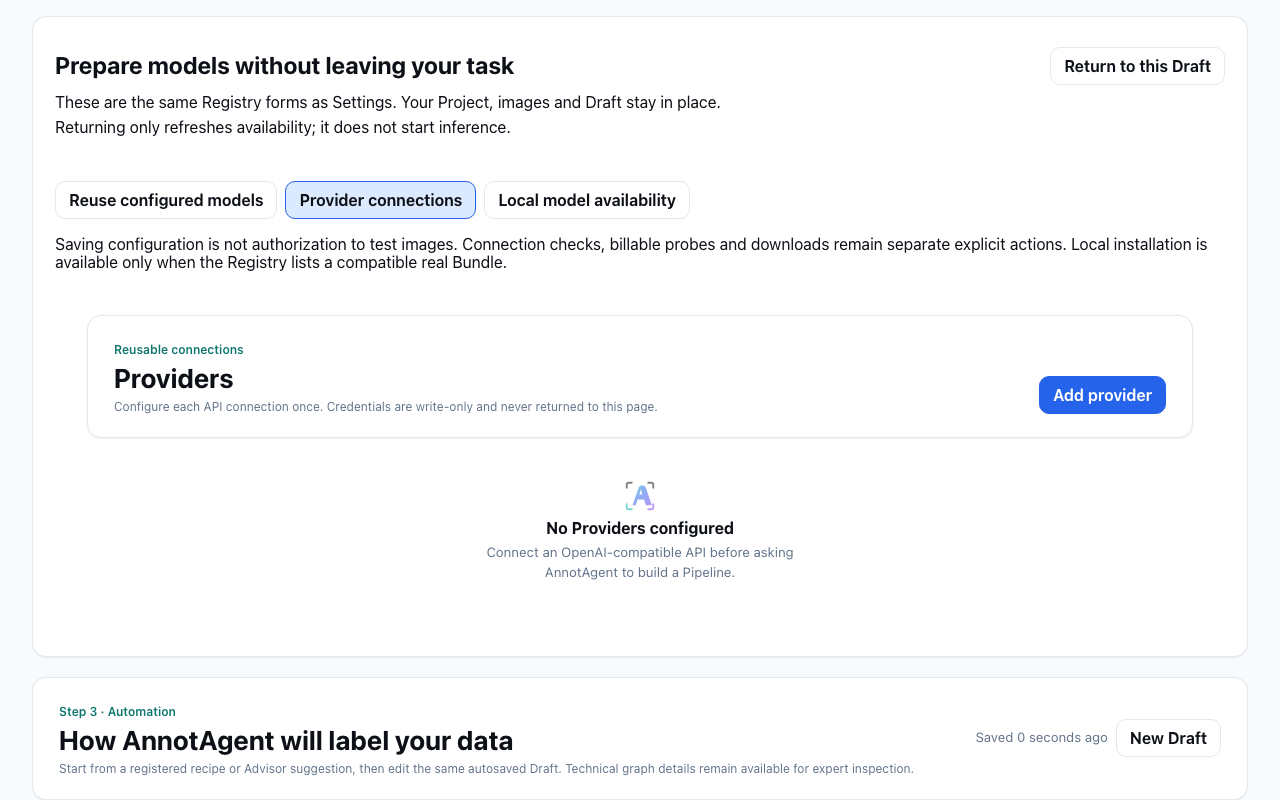
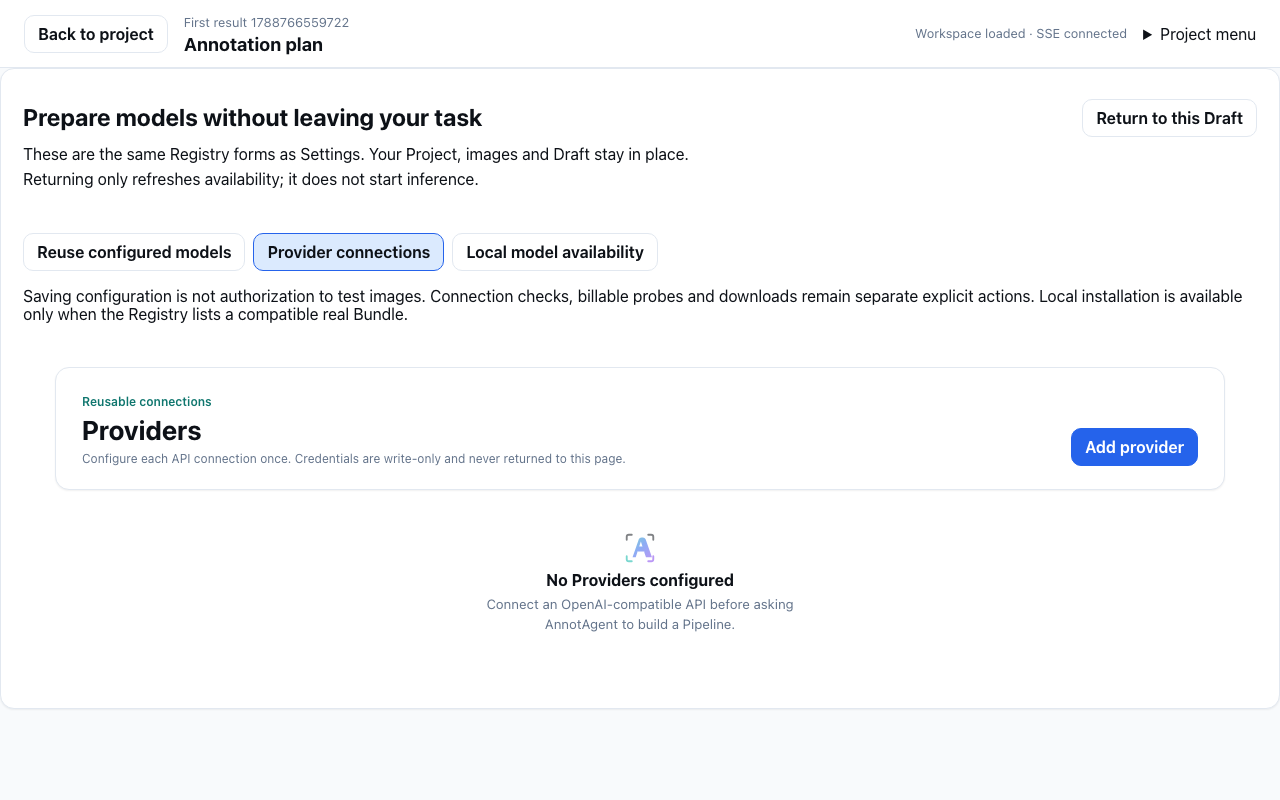
feat(focus): disclose advanced controls and protect unsaved drafts

diff --git a/web/src/App.tsx b/web/src/App.tsx
@@ -708,6 +708,7 @@ export function App() {
             onOpenProjects={() => navigate("/projects")}
             onOpenProject={() => openProject(route.projectId)}
             onOpenTrash={() => navigate(projectTrashPath(route.projectId, "pipeline"))}
+            onNavigationGuardChange={setNavigationGuard}
             onError={setError}
           />
         )}
@@ -2754,6 +2755,7 @@ function WorkflowsPage({
   onOpenProjects,
   onOpenProject,
   onOpenTrash,
+  onNavigationGuardChange,
   onError,
 }: {
   projects: ProjectSummary[];
@@ -2779,6 +2781,7 @@ function WorkflowsPage({
   onOpenProjects: () => void;
   onOpenProject: () => void;
   onOpenTrash: () => void;
+  onNavigationGuardChange: (guard?: () => boolean) => void;
   onError: (value: string) => void;
 }) {
   const entries = projects.flatMap((project) =>
@@ -2857,6 +2860,7 @@ function WorkflowsPage({
   const autosaveTimer = useRef<number | undefined>(undefined);
   const autosaveController = useRef<AbortController | undefined>(undefined);
   const autosaveGeneration = useRef(0);
+  const [autosaveError, setAutosaveError] = useState("");
   const [draftConflict, setDraftConflict] = useState<{
     local: WorkflowDraft;
     server?: WorkflowDraft;
@@ -3004,6 +3008,7 @@ function WorkflowsPage({
     if (draftConflict?.local.id === draft.id) return;
     const snapshot = JSON.stringify(draft);
     if (persistedDrafts.current.get(draft.id) === snapshot) return;
+    setAutosaveError("");
     if (autosaveTimer.current) window.clearTimeout(autosaveTimer.current);
     autosaveTimer.current = window.setTimeout(() => {
       autosaveController.current?.abort();
@@ -3047,6 +3052,7 @@ function WorkflowsPage({
             return;
           }
           onError(`Draft autosave failed: ${error.message}`);
+          setAutosaveError(error.message);
         });
     }, 800);
     return () => {
@@ -3054,6 +3060,14 @@ function WorkflowsPage({
     };
   }, [activeProjectId, draft, draftConflict]);
   useEffect(() => () => autosaveController.current?.abort(), []);
+  const draftHasUnsavedChanges = Boolean(draft && !["published", "archived"].includes(draft.status)
+    && persistedDrafts.current.get(draft.id) !== JSON.stringify(draft));
+  useEffect(() => {
+    onNavigationGuardChange(() => !draftHasUnsavedChanges || window.confirm(t("This Draft has unsaved changes. Leave without saving?")));
+    const guard = (event: BeforeUnloadEvent) => { if (draftHasUnsavedChanges) event.preventDefault(); };
+    window.addEventListener("beforeunload", guard);
+    return () => { onNavigationGuardChange(undefined); window.removeEventListener("beforeunload", guard); };
+  }, [draftHasUnsavedChanges, onNavigationGuardChange]);
   useEffect(() => {
     setAdvisorProposal(undefined);
     setAdvisorProposalRecovered(false);
@@ -3117,6 +3131,7 @@ function WorkflowsPage({
   }, [selectedDraftId, drafts]);
   useEffect(() => {
     if (!pendingDraftFocus || draft?.id !== pendingDraftFocus || !draftEditorRef.current) return;
+    draftEditorRef.current.closest("details")?.setAttribute("open", "");
     draftEditorRef.current.scrollIntoView({ block: "start" });
     draftEditorRef.current.focus({ preventScroll: true });
     setPendingDraftFocus(undefined);
@@ -3213,6 +3228,7 @@ function WorkflowsPage({
         setDraft(created);
         setReport(undefined);
         onSelectContext({ draftId: created.id }, true);
+        setPendingDraftFocus(created.id);
         return Promise.all([refreshDrafts(), onRefresh()]);
       })
       .catch((error: Error) => {
@@ -3331,6 +3347,7 @@ function WorkflowsPage({
     if (selectedDraft) {
       setDraft(selectedDraft);
       onSelectContext({ draftId }, true);
+      setPendingDraftFocus(draftId);
       return;
     }
     void api.workflowDrafts(activeProjectId || undefined).then(({ drafts: latest }) => {
@@ -3338,6 +3355,7 @@ function WorkflowsPage({
       if (recovered) {
         setDraft(recovered);
         onSelectContext({ draftId }, true);
+        setPendingDraftFocus(draftId);
       }
       else onError("The saved Agent Draft is no longer available in this Project.");
     }).catch((error: Error) => onError(error.message));
@@ -3685,14 +3703,15 @@ function WorkflowsPage({
     return <section className="page-stack"><ProjectBreadcrumb project={activeProject} current="Build" onOpenProjects={onOpenProjects} onOpenProject={onOpenProject} /><BuildNavigation step="pipeline" onNavigate={onNavigate} /><div className="loading-banner" role="status">{t("Loading Build readiness…")}</div></section>;
   if (buildSummary && !buildStepAllowed(buildSummary.guidance, "pipeline"))
     return <section className="page-stack"><ProjectBreadcrumb project={activeProject} current="Build" onOpenProjects={onOpenProjects} onOpenProject={onOpenProject} /><BuildNavigation step="pipeline" guidance={buildSummary.guidance} onNavigate={onNavigate} /><BuildBlocker guidance={buildSummary.guidance} onNavigate={onNavigate} /></section>;
+  if (preparation) return <TaskModelPreparation section={preparation} onSelect={setPreparation} onError={onError} onClose={async () => {
+    await refreshModelChoices();
+    setPreparation(undefined);
+    requestAnimationFrame(() => document.getElementById("prepare-task-models")?.focus());
+  }} />;
   return (
     <section className="page-stack">
       <ProjectBreadcrumb project={activeProject} current="Build" onOpenProjects={onOpenProjects} onOpenProject={onOpenProject} />
       <BuildNavigation step="pipeline" guidance={buildSummary?.guidance} onNavigate={(step) => onNavigate(step, step === "test" ? draft?.id : undefined)} />
-      {preparation && <TaskModelPreparation section={preparation} onSelect={setPreparation} onError={onError} onClose={async () => {
-        await refreshModelChoices();
-        setPreparation(undefined);
-      }} />}
       <div className="toolbar-panel workflow-designer-header">
         <div>
           <span className="eyebrow">{t("Step 3 · Automation")}</span>
@@ -3700,7 +3719,7 @@ function WorkflowsPage({
           <p>{t("Start from a registered recipe or Advisor suggestion, then edit the same autosaved Draft. Technical graph details remain available for expert inspection.")}</p>
         </div>
         <div className="button-row">
-          <small className="save-indicator" aria-live="polite">{t("Saved")}{" "}{Math.max(0, Math.floor((clock - (savedAt?.getTime() ?? new Date(draft?.updated_at ?? clock).getTime())) / 1000))}{" "}{t("seconds ago")}</small>
+          <small className="save-indicator" aria-live="polite">{draftConflict || autosaveError ? t("Save failed") : draftHasUnsavedChanges ? t("Saving…") : draft ? `${t("Saved")} ${Math.max(0, Math.floor((clock - (savedAt?.getTime() ?? new Date(draft.updated_at).getTime())) / 1000))} ${t("seconds ago")}` : t("No Current Draft")}</small>
           <button
             onClick={() => create(false)}
             disabled={busy || !activeProjectId}
@@ -3856,7 +3875,7 @@ function WorkflowsPage({
             <div className="inline-provider-setup">
               <h4>{t("Provider setup required")}</h4>
               <p>{t("Pipeline Builder needs an available text model with Tool Calls and Structured Output. Your images and goal are already saved; you can prepare a model here or return later.")}</p>
-              <button className="primary" onClick={onOpenModels}>{t("Prepare models in this task")}</button>
+              <button id="prepare-task-models" className="primary" onClick={onOpenModels}>{t("Prepare models in this task")}</button>
             </div>
           )}
           <fieldset className="agent-objective agent-objective-primary" aria-label={t("Pipeline Builder objective")}>
@@ -4219,7 +4238,7 @@ function WorkflowsPage({
         )}
       </div>
       </details>
-      <div className="workflow-layout">
+      <details className="workflow-edit-details"><summary>{t("Edit plan and advanced configuration")}</summary><div className="workflow-layout">
         <aside className="panel workflow-list">
           <span className="eyebrow">{t("Current Draft")}</span>
           <h2>{draft ? draft.name : t("No Current Draft")}</h2>
@@ -4587,6 +4606,7 @@ function WorkflowsPage({
           )}
         </div>
       </div>
+      </details>
       {buildSummary && <BuildFooter previous="labels" next="test" nextEnabled={buildStepAllowed(buildSummary.guidance, "test")} nextPrimary={false} onNavigate={(step) => onNavigate(step, step === "test" ? draft?.id : undefined)} />}
     </section>
   );
@@ -9922,7 +9942,7 @@ function AgentSessionTrace({
             </p>
           </section>
         )}
-      <div className="fact-grid">
+      <details className="agent-execution-facts"><summary>{t("Execution details and budget")}</summary><div className="fact-grid">
         <Fact label={t("Current stage")} value={stage} />
         <Fact label={t("Model turns")} value={session.model_turns ?? session.model_calls.length} />
         <Fact label={t("Tool budget")} value={`${remainingCalls} remaining · ${reservedCalls} reserved`} />
@@ -9960,7 +9980,7 @@ function AgentSessionTrace({
         />
         {session.builder_constraints && <Fact label={t("Priority")} value={session.builder_constraints.priority.replaceAll("_", " ")} />}
         {session.build_mode && <Fact label={t("Build mode")} value={session.build_mode.kind.replaceAll("_", " ")} />}
-      </div>
+      </div></details>
       {!!session.plan_candidates?.length && (
         <details className="agent-plan-candidates" aria-label={t("Pipeline plan candidates")}>
           <summary>{t("Alternative plans and selection details")} · {session.plan_candidates?.length}</summary>
@@ -10053,7 +10073,7 @@ function AgentSessionTrace({
           </div>
         </section>
       )}
-      <details className="agent-tool-trace" open={session.status === "running"}>
+      <details className="agent-tool-trace">
         <summary>Tool actions ({session.steps.length})</summary>
       <ol className="agent-action-list">
         {session.steps.map((step) => (

diff --git a/web/e2e/guided-workspace.spec.ts b/web/e2e/guided-workspace.spec.ts
@@ -164,6 +164,7 @@ export:
   expect(suggested.status(), suggestionBody).toBe(201);
   const suggestion = JSON.parse(suggestionBody);
   await page.goto(`/projects/${cropProjectId}/build/pipeline`);
+  await page.getByText("Edit plan and advanced configuration", { exact: true }).click();
   await expect(page.getByText("Shared Stages", { exact: true })).toBeVisible();
   await page.getByText("Edit automation", { exact: true }).click();
   const autosaved = page.waitForResponse((response) =>
@@ -481,6 +482,9 @@ export:
   ]);
 
   const editNode = async (page: Page, key: string) => {
+    if (await page.locator(".workflow-edit-details").getAttribute("open") === null) {
+      await page.getByText("Edit plan and advanced configuration", { exact: true }).click();
+    }
     const draftName = page.getByLabel("Draft name");
     const value = await draftName.inputValue();
     const response = page.waitForResponse((candidate) =>
@@ -1222,6 +1226,7 @@ test("geometry safety is visible from Results through Improve Automation", async
 test("generic Project routes contain no RoboCup-specific copy", async ({ page }) => {
   await page.goto(`/projects/${projectId}/build/pipeline`);
   await expect(page.locator("body")).not.toContainText("RoboCup");
+  await page.getByText("Edit plan and advanced configuration", { exact: true }).click();
   await expect(page.getByText("Shared Stages", { exact: true })).toBeVisible();
 });
 
@@ -1920,6 +1925,7 @@ test("a newly created template Draft opens immediately and survives refresh", as
   await expect(page.getByRole("heading", { name: created.name, exact: true }).last()).toBeVisible();
   await page.reload();
   await expect(page).toHaveURL(new RegExp(`\\?draft=${created.id}$`));
+  await page.getByText("Edit plan and advanced configuration", { exact: true }).click();
   await expect(page.getByRole("heading", { name: created.name, exact: true }).last()).toBeVisible();
 });
 
@@ -1957,8 +1963,31 @@ test("opening a managed Draft takes priority over a late Agent poll and focuses 
   await expect(editor).toBeFocused();
   await expect(page).toHaveURL(new RegExp(`\\?draft=${target.id}$`));
   await page.reload();
+  await page.getByText("Edit plan and advanced configuration", { exact: true }).click();
   await expect(editor).toHaveAttribute("data-draft-id", target.id);
   await expect(page).toHaveURL(new RegExp(`\\?draft=${target.id}$`));
+});
+
+test("failed Draft autosave stays explicit and guards the original task", async ({ page, request }) => {
+  const response = await request.get(`/api/workflow-drafts?project_id=${conflictProjectId}`);
+  const { drafts } = await response.json();
+  const draft = drafts.find((value: { status: string }) => !["archived", "published"].includes(value.status));
+  expect(draft).toBeTruthy();
+  await page.goto(`/projects/${conflictProjectId}/build/pipeline?draft=${draft.id}`);
+  await page.getByText("Edit plan and advanced configuration", { exact: true }).click();
+  await page.route(`**/api/workflow-drafts/${draft.id}`, async (route) => {
+    if (route.request().method() === "PATCH") await route.fulfill({ status: 503, contentType: "application/json", body: JSON.stringify({ error: "Isolated test: save unavailable" }) });
+    else await route.continue();
+  });
+  await page.getByLabel("Draft name", { exact: true }).fill("Unsaved local test edit");
+  await expect(page.locator(".save-indicator")).toContainText("Save failed");
+  page.once("dialog", (dialog) => dialog.dismiss());
+  await page.getByRole("button", { name: "Back to project", exact: true }).click();
+  await expect(page.getByLabel("Draft name", { exact: true })).toHaveValue("Unsaved local test edit");
+  await expect(page).toHaveURL(new RegExp(`/build/pipeline\\?draft=${draft.id}`));
+  page.once("dialog", (dialog) => dialog.accept());
+  await page.getByRole("button", { name: "Back to project", exact: true }).click();
+  await expect(page).toHaveURL(new RegExp(`/projects/${conflictProjectId}$`));
 });
 
 test("Run lifecycle management survives refresh, restores, and preserves provenance after cleanup", async ({ page, request }) => {

diff --git a/web/e2e/focus-workspace.spec.ts b/web/e2e/focus-workspace.spec.ts
@@ -20,3 +20,18 @@ test("one canonical project inventory opens page-level preparation without mutat
   await page.getByRole("button", { name: "Back to projects", exact: true }).click();
   await expect(page).toHaveURL(/\/projects$/);
 });
+
+for (const [width, height] of [[1440, 900], [1280, 720], [1024, 768], [390, 844]]) {
+  test(`focused preparation keeps its real controls reachable at ${width}×${height}`, async ({ page }) => {
+    await page.setViewportSize({ width, height });
+    await page.goto("/projects?new=1");
+    const prepare = page.getByRole("region", { name: "Create Project", exact: true });
+    await expect(prepare.getByLabel("Describe your goal", { exact: true })).toBeVisible();
+    await expect(prepare.getByLabel("Choose images", { exact: true })).toBeAttached();
+    expect(await page.evaluate(() => document.documentElement.scrollWidth)).toBeLessThanOrEqual(width);
+    await prepare.getByRole("button", { name: "Save goal and images", exact: true }).scrollIntoViewIfNeeded();
+    await expect(prepare.getByRole("button", { name: "Save goal and images", exact: true })).toBeVisible();
+    await page.getByRole("button", { name: "Back to projects", exact: true }).scrollIntoViewIfNeeded();
+    await page.screenshot({ path: `../docs/execution/focus-workspace/prepare-${width}.png`, fullPage: true });
+  });
+}

diff --git a/web/src/styles.css b/web/src/styles.css
@@ -2167,6 +2167,8 @@ button[aria-disabled="true"] { cursor: not-allowed; opacity: .55; }
 .sample-feedback-image { min-width: 0; }
 .sample-feedback-decision h3, .sample-feedback-decision p { margin: 0; }
 .sample-feedback-fields { display: grid; gap: 1rem; padding-top: 1rem; line-height: 1.5; }
+.workflow-edit-details > summary, .agent-execution-facts > summary { cursor: pointer; font-weight: 600; padding: 1rem; }
+.workflow-edit-details[open] > .workflow-layout { margin-top: 1rem; }
 .sample-feedback-fields .inline-notice { display: flex; align-items: center; gap: 0.75rem; flex-wrap: wrap; }
 .sample-feedback-decision > summary, .sample-technical-details > summary { cursor: pointer; font-weight: 600; padding-block: 0.5rem; }
 .sample-feedback-coordinates { display: grid; grid-template-columns: repeat(2, minmax(0, 1fr)); gap: 0.75rem; }

diff --git a/web/src/locales/zh-CN.ts b/web/src/locales/zh-CN.ts
@@ -1590,5 +1590,9 @@ export const zhCN: Record<string, string> = {
   "Sandbox only": "仅用于沙箱评估",
   "Result needs attention": "结果有问题",
   "Confirm sample and next": "确认样例并下一张",
-  "Confirm this sample": "确认此样例"
+  "Confirm this sample": "确认此样例",
+  "This Draft has unsaved changes. Leave without saving?": "此草稿有尚未保存的修改。仍要离开吗？",
+  "Execution details and budget": "执行详情与调用预算",
+  "Save failed": "保存失败",
+  "Edit plan and advanced configuration": "编辑方案与高级配置"
 };

diff --git a/docs/execution/FOCUS_WORKSPACE_STATUS.md b/docs/execution/FOCUS_WORKSPACE_STATUS.md
@@ -86,3 +86,29 @@ coverage includes 1024/720/640 CSS-pixel reflow and phone paths; **native 200% b
 has not been tested**. No real-person usability test performed.
 
 Commits: M0 `a4e36f9`; M1 is recorded by the next local commit containing this ledger.
+
+## M2 checkpoint: progressive setup and truthful Draft progress
+
+M1 commit: `a6a68f2`. Model preparation now occupies the current task content instead of
+stacking Registry forms above the entire Builder. It reuses the same forms, refreshes real
+compatibility when returning, retains the Draft URL and does not resume inference. Advanced
+plan editing is collapsed; explicit Open/Create Draft actions expand and focus it. Pipeline
+management stays outside that disclosure and remains directly reachable. Raw running tool
+actions and budget counters no longer expand automatically; phase/status/cancel and outcome
+repair controls remain visible. Counters describe the real tool budget, not completion %.
+
+Autosave now distinguishes unsaved/saving, failure/conflict and saved snapshots. Navigation
+and refresh guards protect unsaved Draft edits. New browser regression forces PATCH failure,
+verifies the error state and retained name, rejects a leave request, then explicitly discards
+the local edit. It does not mutate real Workspace data. Four additional browser checks cover
+preparation at 1440×900, 1280×720, 1024×768 and 390×844 (`prepare-*.png`).
+
+Remaining M2 boundaries: no scope-bound sample approval receipt or cancellable synchronous
+sample execution has been added. Registry panel selection itself resets on refresh, while
+Project/Draft remain stable. Advanced-editor expansion resets on refresh and is one click
+away. Do not claim these acceptance items complete. No new authorization or automatic paid
+operation is inferred by entering, refreshing or leaving either screen.
+
+M2 checkpoint verification: **60/60 E2E passed**, TypeScript and production build passed;
+`/tmp/annotagent-focus-m2-verified.log`. Includes unchanged security, deletion/restore,
+publication, same-project navigation, slow poll and dual-tab conflict regressions.
